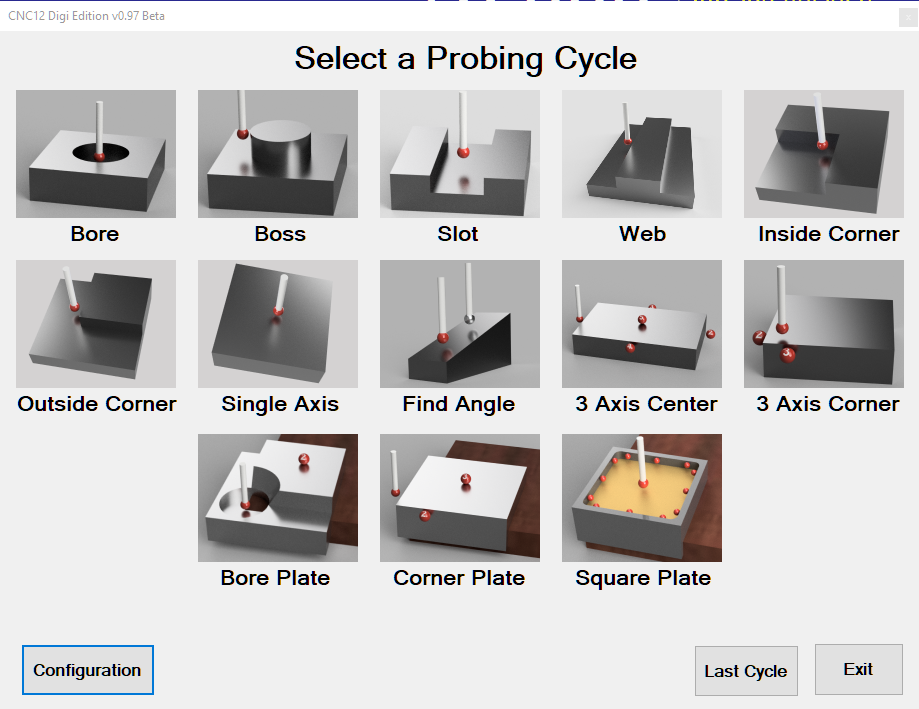
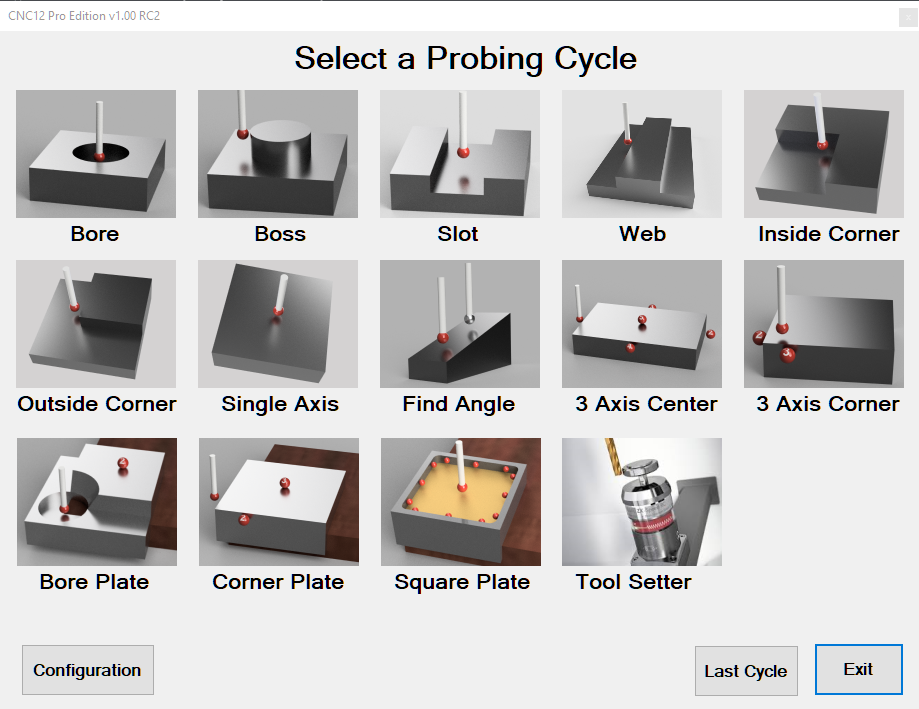
doc update

diff --git a/docs/ToolSetter.md b/docs/ToolSetter.md
@@ -1,0 +1,82 @@
+# Universal Tool Setter
+
+## Description
+These Tool Setter Cycles are for machines with spindles that have no fixed tool holders and can be used to set the machines WCS 0 for each tool by measuring the Tools Height Offset
+and are designed to be integrated with a M6 Tool Change Macro.
+
+Adding a simple M58 command into the *mfunc6.mac* Tool Change Macro will bring up the Tool Setter screen for every tool change:
+
+![](/images/pa065.PNG)
+
+These Probing Cycles require that all tools are configured in the CNC12 Tool Offset Library with a Height Offset of 0. The ProbeApp will issue a *Warning* if this is not the case.
+Before these probing cycles can be used for the first time, the *Configuration* Button needs to be pressed to confirm Probe settings and probing options.
+See the *Configuration* chapter for each Method below for details. 
+
+The Universal Tool Setter Cycles support 3 different Tool Setting Methods:
+
+* Using a Movable and a Fixed Tool Touch Off Plate
+* Using a single, Movable Tool Touch Off Plate
+* Manual Tool Touch Off
+
+## *Method 1:* Using a Movable and a Fixed Tool Touch Off Plate
+
+![](/images/pa065.PNG)
+
+This method uses two Tool Touch Off Plates (TT). The movable TT is being placed on top of the stock to find the exact position of the stocks top surface,
+the second TT is installed in a fixed location and is being used to automatically touch off all subsequent tools being used on the same workpiece.
+
+This method has three cycle options. Read  the description for each option carefully and make sure you select the appropriate cycle for each Tool Change.
+
+### Option 1: Probe Z0 and Reference Height Offset 
+
+![](/images/pa070.PNG)
+
+This cycle is being used on the first Tool Change after a new workpiece has been installed that has an unknown position of the workpiece top surface and involves two probing cycles.
+
+The first probing cycle is using the movable TT on top of the workpiece and will measure the exact position of the top surface and will also set Z0 on top of the surface for the first tool.
+
+The second probing cycle is using the Fixed TT and is needed to calculate the *Reference Height Offset* which is the distance between the top of the Fixed TT and the top of the workpiece.
+
+The Reference Height Offset is used to correctly set the Tool Height Offset for subsequent tool changes on the same workpiece that are automatically touched off with the Fixed TT only.
+
+### Option 2: Set Z0 with Fixed TT - Ref Height Offset 
+
+![](/images/pa071.PNG)
+
+After a *Reference Height Offset* has been established with *Option 1*, all subsequent Tool Changes on the same workpiece can be done automatically by just touching the tool off the Fixed TT.
+
+Use this option for all subsequent Tool Changes on the same workpiece after the *Reference Tool Height* has been set with *Option 1*.
+
+
+### Option 3: Continue without Tool Probing 
+
+![](/images/pa072.PNG)
+
+If the Tool Setter screen is being launched by a M6 Tool Change command but no Tool Touch Off is needed, just press the *Option 3* button to continue the job without a Tool Touch Off.
+
+### Configuration for Movable and Fixed TT Method
+
+![](/images/pa066.PNG)
+
+The Configuration screen allows for a very flexible customization of the probing cycle. 
+These options can be changed at any time and the ProbeApp will dynamically generate the necessary probing commands for CNC12 based on current configuration settings. 
+
+These are the descriptions what each option does:
+
+* Show Message before Probing Movable TT: If this option is checked, CNC12 will display a Message before the probing move with the Movable TT is executed. 
+
+## *Method 2:* Using a single, Movable Tool Touch Off Plate
+
+![](/images/pa067.PNG)
+
+![](/images/pa068.PNG)
+
+## *Method 3:* Manual Tool Touch Off
+
+![](/images/pa069.PNG)
+
+
+
+
+[Back](index.md)
+

diff --git a/docs/index.md b/docs/index.md
@@ -1,6 +1,6 @@
 # Overview
 
-* [ProbeApp Installation Instructions](install.md)
+* [ProbeApp Installation and Upgrade Instructions](install.md)
 
 ![](/images/pa001.PNG)
 
@@ -21,6 +21,7 @@ These are the currently supported Probing Cycles (Click the links to get detaile
 * [Bore Plate](BorePlate.md)
 * [Corner Plate](CornerPlate.md)
 * [Square Plate](InCorPlate.md)
+* [Tool Setter](ToolSetter.md)
 
 The ProbeApp is using it's own, enhanced probing cycles that are based on the original Centroid probing cycles with some additional, new cycles.
 The enhancements of the ProbeApp probing cycles include fully qualified file names for all cycles, Axis Number independence, improved error handling and some Probe Retry features 
@@ -78,17 +79,37 @@ By default the ProbeApp uses M58 to integrate with CNC12, that means a customize
 ; Description: Provides Probing Routines when used with program ProbeApp.exe 
 ; Author: swissi
 ;---------------------------------------------------------------------------------
-#33999 = #4006                       ; store active units
-M130 "C:\cncm\probing\ProbeApp.exe"  ; Call the external probing cycle setup program
-#30000 = 0                           ; No probing Cycle saved when this stays 0
+If #50001                                        ;Prevent lookahead from parsing past here
+If #4201 || #4202 Then GOTO 1000                 ;Skip macro if graphing or searching
+
+#33999 = #4006                                   ;Store active units
+G65 "c:\cncm\probing\probe_initialize.cnc" A99   ;Run Probe Initialization to check for Setup Errors (A99 = Don't check Inputs)
+If #50001                                        ;Prevent lookahead from parsing past here
+G65 "c:\cncm\probing\probe_save_parameters.cnc"  ;Save CNC12 Parameters to make them available in ProbeApp
+If #50001                                        ;Prevent lookahead from parsing past here
+;---------------------------------------------------------------------------------
+;Possible ProbeApp Startup Options to directly open a specific Probing Cycle
+;---------------------------------------------------------------------------------
+M130 "C:\cncm\probing\ProbeApp.exe"               ;Startup ProbeApp Main Screen
+;M130 "C:\cncm\probing\ProbeApp.exe -ToolSetter"   ;Startup ProbeApp directly with Universal Tool Setter Screen
+;M130 "C:\cncm\probing\ProbeApp.exe -CornerPlate"  ;Startup ProbeApp directly with Corner Plate Screen
+;M130 "C:\cncm\probing\ProbeApp.exe -InCorPlate"   ;Startup ProbeApp directly with Square Plate Screen
+;M130 "C:\cncm\probing\ProbeApp.exe -BorePlate"    ;Startup ProbeApp directly with Bore Plate Screen
+
+#30000 = 0                                         ;No probing Cycle saved when this remains at 0 
 N100
 G4 P1
+
 ;+=============================================
 ;|                     Probing Cycle in Progress!"
 ;|
 ;|                 Press "Cycle Cancle" to terminate
 ;+=============================================
-M200 "Press Cycle Start to begin Probing Cycle\nPress Cycle Cancle to Exit"
+M200 "Press Cycle Start to begin Probing Cycle\nPress Cycle Cancel to Exit"
+
+
+
+
 
 IF #50001 ;sync
 G65 "c:\cncm\ncfiles\probing_cycle.cnc"
@@ -97,7 +118,7 @@ G65 "c:\cncm\ncfiles\probing_cycle.cnc"
 IF #33999 == 20 THEN G20 ELSE G21
 
 ; display message if no Probing Cycle has been found
-IF #30000 == -1 THEN M200 "No Probing Cycle found!\n\nPress Cycle Start"
+IF #30000 == -1 THEN M200 "No Probing Cycle found!\n\nPress Cycle Start to Continue, Cycle Cancel to Abort"
 
 ; display Error Message if Probing Cycle was aborted
 IF #30000 > 1 THEN G65 "#301\probe_error.cnc" A[#30000]
